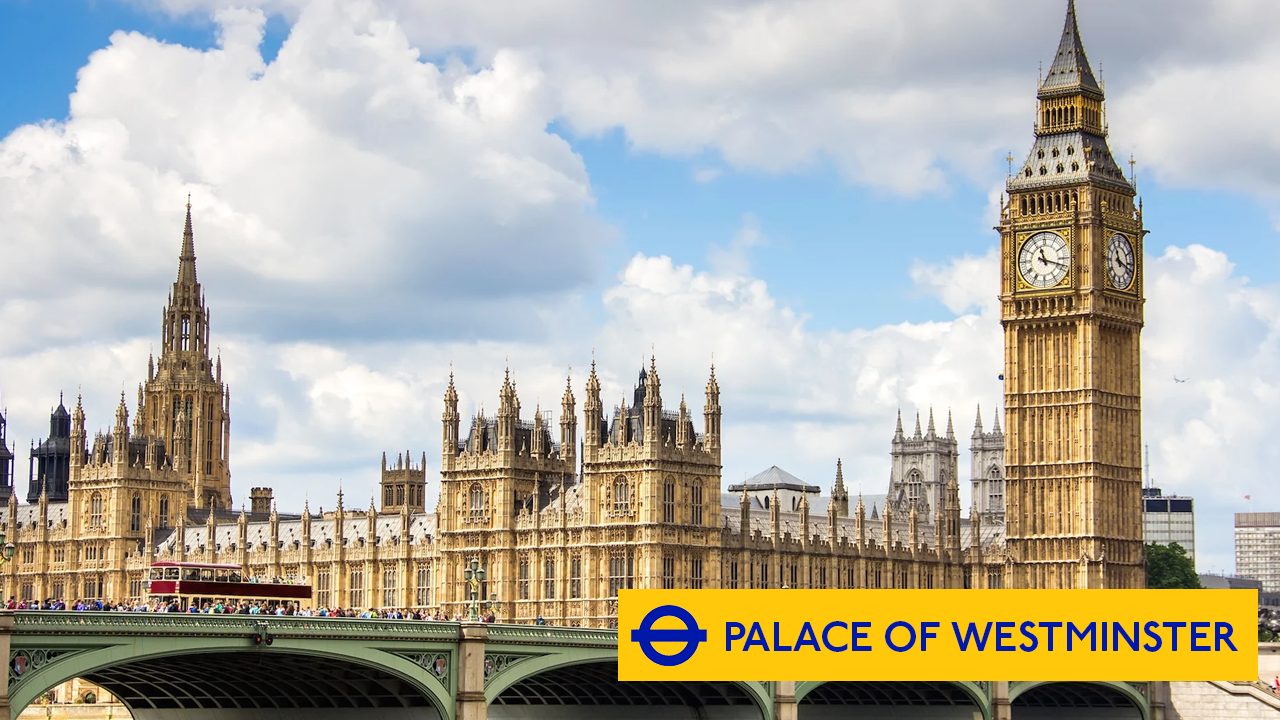
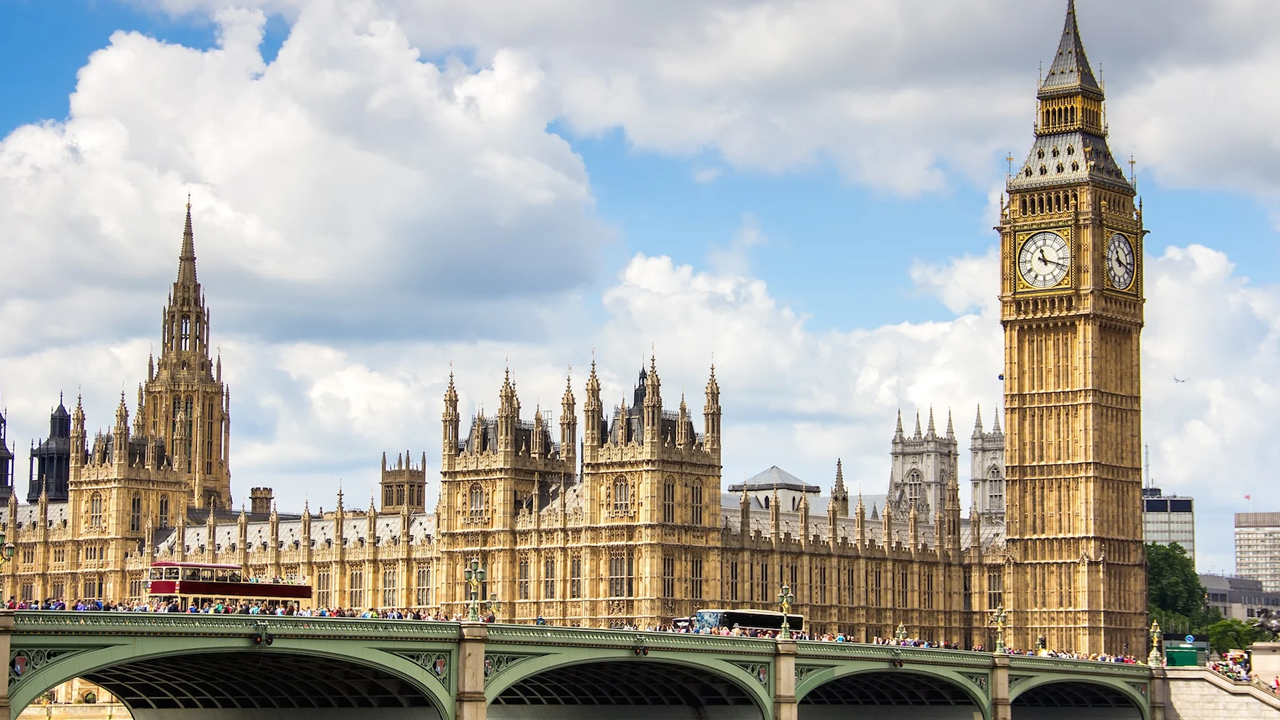
Adds sub-hero section

Changed region(s): [[0.4688, 0.7944, 1.0, 0.9472]]

diff --git a/src/components/Hero/Hero.jsx b/src/components/Hero/Hero.jsx
@@ -4,72 +4,93 @@ import towerBridge from "../../assets/images/tower-bridge.png";
 import borough from "../../assets/images/borough-market.png";
 import piccadilly from "../../assets/images/piccadilly-circus.png";
 import buckingham from "../../assets/images/buckingham-palace.png";
-import test from "../../assets/images/test.png";
+import london from "../../assets/images/london.png";
 import { useState, useEffect } from "react";
+import { Fade } from "react-slideshow-image";
 import Header from "../Header/Header";
 import "./Hero.scss";
 import "react-slideshow-image/dist/styles.css";
+import SubHero from "../SubHero/SubHero";
 function Hero() {
   const pictureSets = [
     {
-      pictures: test,
-      headerColor: "bakerloo",
+      pictures: london,
+      headerColor: "base",
       station: "Mind the Map",
+      place: "",
     },
     {
       pictures: bigBen,
       headerColor: "circle",
       station: "Westminster",
+      place: "Palace of Westminster",
     },
     {
       pictures: towerBridge,
       headerColor: "district",
       station: "Tower Hill",
+      place: "Tower Bridge",
     },
     {
       pictures: stPaul,
       headerColor: "central",
       station: "St.Paul",
+      place: "St.paul Cathedral",
     },
     {
       pictures: borough,
       headerColor: "northern",
       station: "London Bridge",
+      place: "Borough Market",
     },
     {
       pictures: piccadilly,
       headerColor: "piccadilly",
       station: "Piccadilly Circus",
+      place: "Piccadilly Circus",
     },
     {
       pictures: buckingham,
       headerColor: "victoria",
       station: "Green Park",
+      place: "Buckingham Palace",
     },
   ];
 
-  const [currentSetIndex, setCurrentSetIndex] = useState(0);
-  const { pictures, headerColor, station } = pictureSets[currentSetIndex];
-
-  const [isVisible, setIsVisible] = useState(true);
-
-  const toggleVisibility = () => {
-    setIsVisible((prev) => !prev);
+  const divStyle = {
+    display: "flex",
+    alignItems: "center",
+    justifyContent: "center",
+    backgroundSize: "cover",
+    backgroundPosition: "center",
+    height: "18rem",
+    width: "100%",
   };
-
-  useEffect(() => {
-    const intervalId = setInterval(() => {
-      setCurrentSetIndex((prevIndex) => (prevIndex + 1) % pictureSets.length);
-    }, 4000);
-
-    return () => clearInterval(intervalId);
-  }, []);
 
   return (
     <div>
-      <Header headerColor={headerColor} station={station} />
       <div className="slideshow">
-        <img src={pictures} className="hero__picture" />
+        <Fade>
+          {pictureSets.map((fadeImage, index) => (
+            <div key={index}>
+              <Header
+                headerColor={fadeImage.headerColor}
+                station={fadeImage.station}
+              />
+              <div
+                style={{
+                  ...divStyle,
+                  backgroundImage: `url(${fadeImage.pictures})`,
+                }}
+                className="hero__picture"
+              ></div>
+              <SubHero
+                headerColor={fadeImage.headerColor}
+                place={fadeImage.place}
+              />
+            </div>
+          ))}
+        </Fade>
       </div>
     </div>
   );

diff --git a/src/components/Header/Header.jsx b/src/components/Header/Header.jsx
@@ -7,13 +7,23 @@ function Header({ headerColor, station }) {
       <div className="header__wrap">
         <Link to="/" className="header__logo">
           <img src={logo} alt="logo" className="header__logo" />
-          <h2 className="header__description">{station}</h2>
+          <h2
+            className={`header__description header__description--${headerColor}`}
+          >
+            {station}
+          </h2>
         </Link>
         <ul className="header__list">
-          <Link to="/route" className="header__items">
+          <Link
+            to="/route"
+            className={`header__items header__items--${headerColor}`}
+          >
             <li>Route Planner</li>
           </Link>
-          <Link to="/status" className="header__items">
+          <Link
+            to="/status"
+            className={`header__items header__items--${headerColor}`}
+          >
             <li>Status Updates</li>
           </Link>
         </ul>

diff --git a/src/styles/partials/_variables.scss b/src/styles/partials/_variables.scss
@@ -1,4 +1,5 @@
 $colors: (
+  base: #2d3039,
   bakerloo: #b26300,
   central: #dc241f,
   circle: #ffc80a,
@@ -19,10 +20,14 @@ $colors: (
   .header__container--#{$line} {
     background-color: $color;
   }
+  .sub-hero__banner--#{$line} {
+    background-color: $color;
+  }
 }
 
 $header-color: #61686b;
 $primary-text-color: #ffffff;
+$secondary-text-color: #0019a8;
 
 $tablet-breakpoint: 768px;
 $desktop-breakpoint: 1280px;

diff --git a/src/components/SubHero/SubHero.scss b/src/components/SubHero/SubHero.scss
@@ -1,0 +1,20 @@
+@use "../../styles/partials/variables" as *;
+@use "../../styles/partials/mixins" as *;
+
+.sub-hero {
+  &__banner {
+    margin: 0;
+    height: 2.5rem;
+    display: flex;
+    justify-content: center;
+    align-items: center;
+  }
+  &__place {
+    margin: 0;
+    text-transform: uppercase;
+    color: $primary-text-color;
+    &--circle {
+      color: $secondary-text-color;
+    }
+  }
+}

diff --git a/src/components/SubHero/SubHero.jsx b/src/components/SubHero/SubHero.jsx
@@ -1,0 +1,15 @@
+import React from "react";
+import "./SubHero.scss";
+function SubHero({ headerColor, place }) {
+  return (
+    <>
+      <div className={`sub-hero__banner sub-hero__banner--${headerColor}`}>
+        <p className={`sub-hero__place sub-hero__place--${headerColor}`}>
+          {place}
+        </p>
+      </div>
+    </>
+  );
+}
+
+export default SubHero;

diff --git a/src/components/Header/Header.scss b/src/components/Header/Header.scss
@@ -37,6 +37,9 @@
     align-items: center;
     font-size: 0.65rem;
     text-decoration: none;
+    &--circle {
+      color: $secondary-text-color;
+    }
   }
 
   &__list {
@@ -51,5 +54,8 @@
   &__items {
     color: $primary-text-color;
     text-decoration: none;
+    &--circle {
+      color: $secondary-text-color;
+    }
   }
 }

diff --git a/src/components/Hero/Hero.scss b/src/components/Hero/Hero.scss
@@ -3,7 +3,12 @@
 
 .hero {
   &__picture {
-    width: 100%;
-    aspect-ratio: 16/9;
+    display: "flex";
+    align-items: "center";
+    justify-content: "center";
+    background-size: "cover";
+    background-position: "bottom center";
+    height: "18rem";
+    width: "100%";
   }
 }
